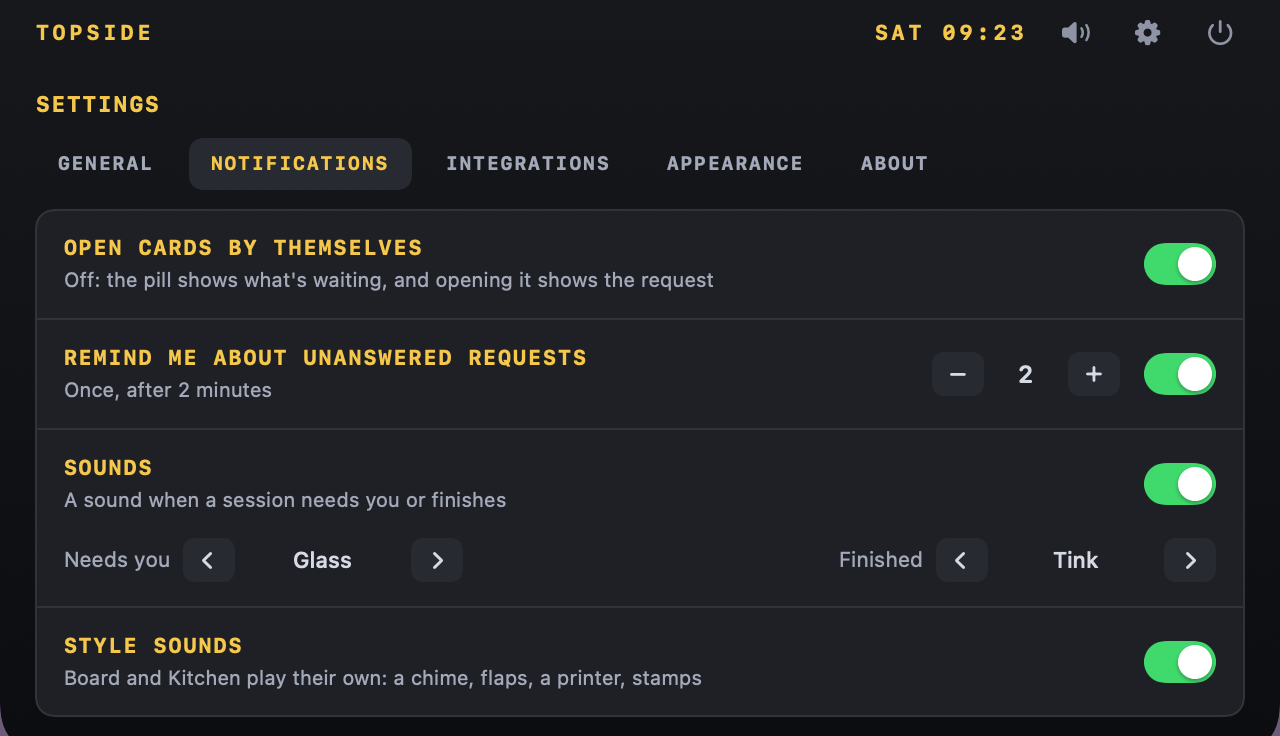
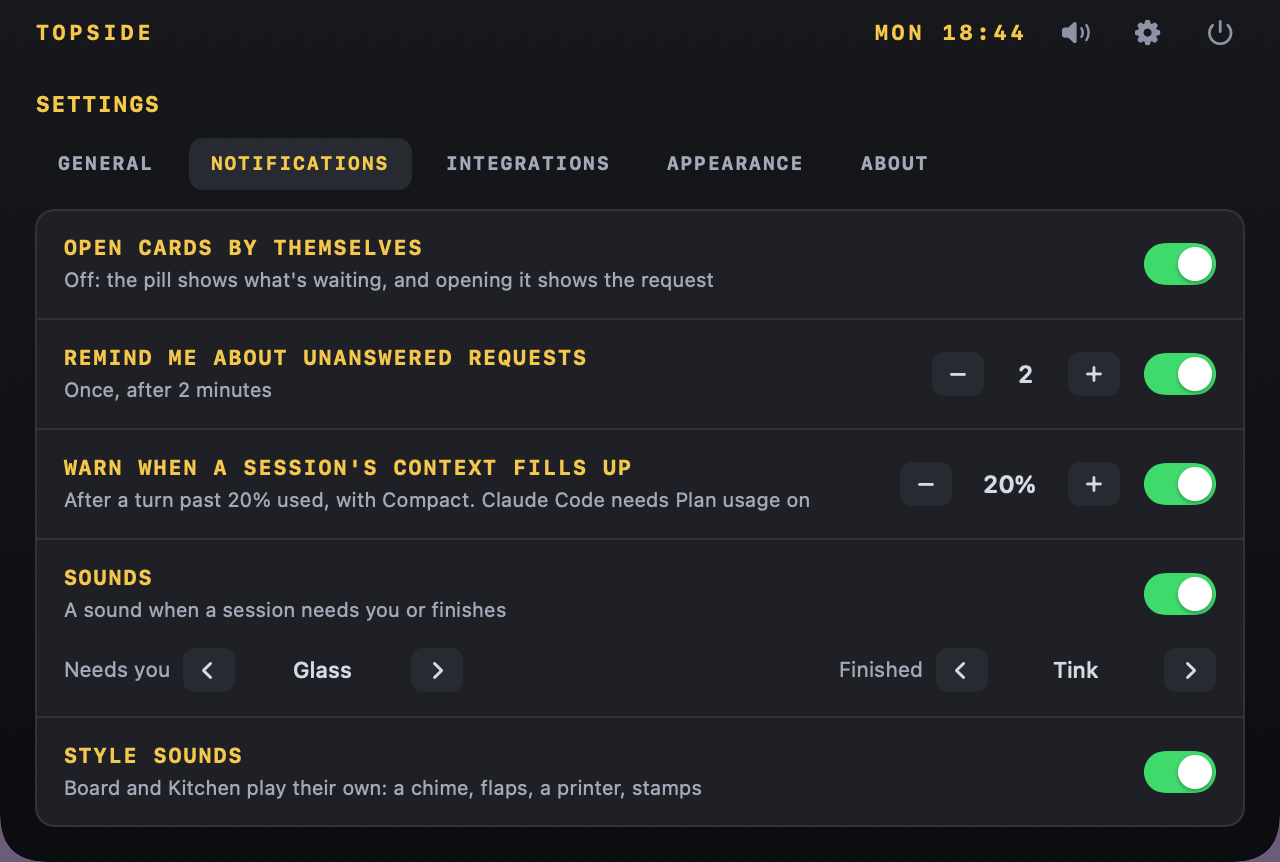
Proofread the Mac pages against 0.4.9
The departures strip gets a fifth row for OpenCode. What's new mentions
the Always rule printed under a request, and How it works names the
OpenCode Go exception to the spend line. The docs page covers OpenCode's
Always, the full list of OpenCode runs that are dropped, and a fresh
Notifications picture.

Claude-Session: https://claude.ai/code/session_01AeEtMawiK6Vvbuy3Spha91

diff --git a/docs/index.html b/docs/index.html
@@ -234,7 +234,7 @@ footer p { margin: 0; font-size: 11.5px; }
 
         <h3>OpenCode</h3>
         <p>OpenCode loads plugins, not hooks, so Topside adds one file, marked and removed the same way as pi's. It goes under <code>$XDG_CONFIG_HOME/opencode/plugins</code> when that's set. OpenCode reads plugins when it starts, so a session that was already open says "Not tracked yet" until you restart it.</p>
-        <p>Unlike pi, OpenCode asks for permission itself, about whatever its <code>permission</code> config sets to <code>ask</code>. Its prompt stays up while the island asks too, and the first answer wins. You get Allow, Deny and Always; Always covers the pattern OpenCode offers, <code>git status *</code> say, in that project until OpenCode restarts. A question with options comes up on the question card. <code>opencode run</code> and <code>opencode serve</code> don't show.</p>
+        <p>Unlike pi, OpenCode asks for permission itself, about whatever its <code>permission</code> config sets to <code>ask</code>. Its prompt stays up while the island asks too, and the first answer wins. You get Allow, Deny and Always; Always covers the pattern OpenCode offers, <code>git status *</code> say, in that project until OpenCode restarts. A question with options comes up on the question card. <code>opencode run</code>, <code>serve</code>, <code>web</code>, <code>acp</code> and <code>attach</code> don't show.</p>
         <p>OpenCode has moved its plugin API before. If a version stops taking Topside's answers, its requests don't open on the island at all: the row says it's waiting and you answer in OpenCode. It bills by the token, so the header shows cost and tokens; on OpenCode Free or Zen, which cost nothing, just the tokens.</p>
         <p>OpenCode Go turns cost nothing until you hit a limit, so the limits are the number worth watching. On a Go model the header shows Go's five-hour and weekly windows, the same way it shows Claude's. After each turn the plugin asks opencode.ai with the <code>opencode-go</code> key OpenCode saved when you logged in. That key goes to opencode.ai and nowhere else.</p>
         <p><strong>Help wanted.</strong> Whoever writes Topside doesn't pay for Go. This part was built from OpenCode's own source and tested against a fake server, never a real account. If you're on Go, finish a turn, compare the header with your Console, and <a href="https://github.com/ducban/topside/issues/new?title=OpenCode%20Go%20limits">open an issue</a> to say whether they match. "It works" is a useful report too.</p>
@@ -275,7 +275,8 @@ footer p { margin: 0; font-size: 11.5px; }
             <tr><td>Finished turn</td><td>A turn ends</td><td>The last reply</td></tr>
           </tbody>
         </table></div>
-        <p>On the board these come down from the notch with keys to press; in the kitchen they print as order tickets you stamp. Claude Code's permission requests have two more answers. "Always" sends back the rule Claude Code itself suggests: accept edits for the session, or allow that exact command in <code>.claude/settings.local.json</code>. It's missing when Claude Code suggests nothing. "Auto mode" switches the session to <code>auto</code>.</p>
+        <p>On the board these come down from the notch with keys to press; in the kitchen they print as order tickets you stamp. Claude Code's permission requests have two more answers. "Always" sends back the rule Claude Code itself suggests: accept edits for the session, or allow that exact command in <code>.claude/settings.local.json</code>. It's missing when Claude Code suggests nothing. "Auto mode" switches the session to <code>auto</code>. OpenCode offers an Always too, described under <a href="#agents">Agents</a>.</p>
+        <p>Whenever Always is on offer, the rule it would save is printed under the request, such as "Always allow Bash(git status *) in this project until OpenCode restarts". A long rule scrolls, so you can read it to the last word before you press anything.</p>
         <p>A request stays until it's answered, on the island or in the terminal. If the session's terminal is already in front when a turn ends, nothing opens: you're looking at it.</p>
 
         <h3>Keys</h3>
@@ -338,7 +339,7 @@ footer p { margin: 0; font-size: 11.5px; }
           <figcaption>Integrations. Each switch says what it will touch before you flip it.</figcaption>
         </figure>
         <figure>
-          <img src="../img/settings-notifications.png?v=3" width="1280" height="736" loading="lazy" alt="The Notifications tab on the board's face: Open cards by themselves, Remind me about unanswered requests set to 2 minutes, Sounds with Glass for needs you and Tink for finished, and Style sounds.">
+          <img src="../img/settings-notifications.png?v=4" width="1280" height="862" loading="lazy" alt="The Notifications tab on the board's face: Open cards by themselves, Remind me about unanswered requests set to 2 minutes, Warn when a session's context fills up set to 20%, Sounds with Glass for needs you and Tink for finished, and Style sounds.">
           <figcaption>Notifications. A hidden folder or prompt comes back with its ×.</figcaption>
         </figure>
         <figure>

diff --git a/index.html b/index.html
@@ -124,7 +124,7 @@ img { max-width: 100%; display: block; }
 .mark { margin: 0 0 32px; display: flex; justify-content: center; }
 .mark .flaps { font-size: clamp(30px, 8.4vw, 50px); }
 
-/* Departures: four sample sessions on the board's black face, one moving on every few seconds. */
+/* Departures: five sample sessions on the board's black face, one moving on every few seconds. */
 .departures { background: #0c0d10; border-radius: 12px; padding: 14px 16px 16px; margin: 0 0 44px; overflow-x: auto; clear: right; }
 .departures header { display: flex; justify-content: space-between; gap: 12px; font-family: var(--mono); font-size: 11px;
   letter-spacing: .14em; color: #f5c84b; margin-bottom: 10px; }
@@ -218,12 +218,13 @@ footer p { margin: 0; font-size: 11.5px; }
 
   <div class="mark"><span class="flaps" role="img" aria-label="Topside">TOPSIDE</span></div>
 
-  <section class="departures" aria-label="Departures: four sample sessions">
+  <section class="departures" aria-label="Departures: five sample sessions">
     <header>DEPARTURES <span>SAMPLE SESSIONS</span></header>
     <div class="row"><span class="flaps code waiting" data-length="3">CLD</span><span class="flaps name" data-length="12">checkout</span><span class="flaps status waiting" data-length="8">WAITING</span><span class="flaps age" data-length="3">2M</span></div>
     <div class="row"><span class="flaps code working" data-length="3">CDX</span><span class="flaps name" data-length="12">docs</span><span class="flaps status working" data-length="8">BOARDING</span><span class="flaps age" data-length="3">NOW</span></div>
     <div class="row"><span class="flaps code done" data-length="3">PI</span><span class="flaps name" data-length="12">infra</span><span class="flaps status done" data-length="8">ARRIVED</span><span class="flaps age" data-length="3">5M</span></div>
     <div class="row"><span class="flaps code parked" data-length="3">OMP</span><span class="flaps name" data-length="12">webapp</span><span class="flaps status parked" data-length="8">PARKED</span><span class="flaps age" data-length="3">12M</span></div>
+    <div class="row"><span class="flaps code working" data-length="3">OPC</span><span class="flaps name" data-length="12">api</span><span class="flaps status working" data-length="8">BOARDING</span><span class="flaps age" data-length="3">1M</span></div>
   </section>
 
   <aside class="note intro"><b>tl;dr</b>This margin is the short version. Skim it and skip the letter, I won't know.</aside>
@@ -290,7 +291,7 @@ footer p { margin: 0; font-size: 11.5px; }
 
   <h2>How it works</h2>
   <aside class="note"><b>Wiring</b>Hooks run the app's binary, which writes JSON to a Unix socket. SQLite on disk. No daemon, no account, no other socket. <a href="docs/#agents">What each agent gets</a>.</aside>
-  <p>The design is boring on purpose. Nothing runs beside the app and nothing leaves the machine. Each agent's hook starts the app's own binary in hook mode, which writes one JSON message to a Unix socket and exits. Sessions live in SQLite under <code>~/Library/Application Support/Topside</code>.</p>
+  <p>The design is boring on purpose. Nothing runs beside the app, and nothing leaves the machine unless you're on OpenCode Go, where the plugin asks opencode.ai for your limits. Each agent's hook starts the app's own binary in hook mode, which writes one JSON message to a Unix socket and exits. Sessions live in SQLite under <code>~/Library/Application Support/Topside</code>.</p>
   <aside class="note"><b>Your config</b>Installing hooks keeps the ones you had and backs the file up first. With the app closed, the agents ask in the terminal as before.</aside>
   <p>Installing the hooks adds eight entries to <code>~/.claude/settings.json</code>, leaves yours alone, and backs the file up first, because I've had a tool helpfully rewrite my config too. Quit Topside and the agents go back to asking in the terminal, as if it had never been there.</p>
 
@@ -311,6 +312,7 @@ footer p { margin: 0; font-size: 11.5px; }
         <li>When a session's context passes 20%, a card says so after its turn, and Compact types <code>/compact</code> for you. Every agent, not just Claude Code.</li>
         <li>OpenCode joins as the fifth agent. Allow, Always, Deny and its questions all work from the notch.</li>
         <li>The header says what a pay-per-token session has cost, like <code>$0.42 · 182K</code>, or shows OpenCode Go's limits. Restarting the app no longer blanks it.</li>
+        <li>Always prints the rule it would save under the request, so you know what you're agreeing to before you press it.</li>
         <li>A session Orca reopens shows up right away.</li>
       </ul>
       <a href="https://github.com/ducban/topside/releases">Release notes</a>
